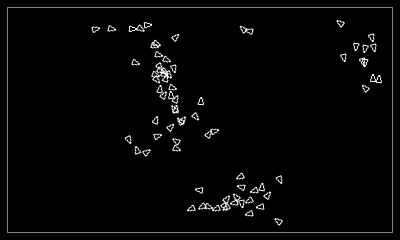
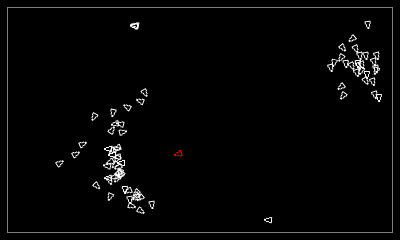
example changed to sheeps and wolf

diff --git a/example/lib/game/levels/example.js b/example/lib/game/levels/example.js
@@ -1,6 +1,6 @@
 ig.module( 'game.levels.example' )
-.requires( 'impact.image','game.entities.triangle' )
+.requires( 'impact.image','game.entities.sheep','game.entities.wolf' )
 .defines(function(){
-LevelExample=/*JSON[*/{"entities":[{"type":"EntityTriangle","x":216,"y":168},{"type":"EntityTriangle","x":220,"y":168},{"type":"EntityTriangle","x":40,"y":36},{"type":"EntityTriangle","x":44,"y":36},{"type":"EntityTriangle","x":48,"y":36},{"type":"EntityTriangle","x":36,"y":36},{"type":"EntityTriangle","x":52,"y":36},{"type":"EntityTriangle","x":32,"y":36},{"type":"EntityTriangle","x":56,"y":36},{"type":"EntityTriangle","x":60,"y":36},{"type":"EntityTriangle","x":64,"y":36},{"type":"EntityTriangle","x":68,"y":36},{"type":"EntityTriangle","x":32,"y":52},{"type":"EntityTriangle","x":36,"y":52},{"type":"EntityTriangle","x":40,"y":52},{"type":"EntityTriangle","x":44,"y":52},{"type":"EntityTriangle","x":48,"y":52},{"type":"EntityTriangle","x":52,"y":52},{"type":"EntityTriangle","x":56,"y":52},{"type":"EntityTriangle","x":60,"y":52},{"type":"EntityTriangle","x":64,"y":52},{"type":"EntityTriangle","x":68,"y":52},{"type":"EntityTriangle","x":276,"y":56},{"type":"EntityTriangle","x":280,"y":56},{"type":"EntityTriangle","x":284,"y":56},{"type":"EntityTriangle","x":288,"y":56},{"type":"EntityTriangle","x":292,"y":56},{"type":"EntityTriangle","x":276,"y":64},{"type":"EntityTriangle","x":280,"y":64},{"type":"EntityTriangle","x":284,"y":64},{"type":"EntityTriangle","x":288,"y":64},{"type":"EntityTriangle","x":192,"y":168},{"type":"EntityTriangle","x":292,"y":64},{"type":"EntityTriangle","x":196,"y":168},{"type":"EntityTriangle","x":200,"y":168},{"type":"EntityTriangle","x":204,"y":168},{"type":"EntityTriangle","x":208,"y":168},{"type":"EntityTriangle","x":212,"y":168},{"type":"EntityTriangle","x":224,"y":168},{"type":"EntityTriangle","x":228,"y":168},{"type":"EntityTriangle","x":232,"y":168},{"type":"EntityTriangle","x":236,"y":168},{"type":"EntityTriangle","x":192,"y":176},{"type":"EntityTriangle","x":196,"y":176},{"type":"EntityTriangle","x":200,"y":176},{"type":"EntityTriangle","x":204,"y":176},{"type":"EntityTriangle","x":208,"y":176},{"type":"EntityTriangle","x":212,"y":176},{"type":"EntityTriangle","x":216,"y":176},{"type":"EntityTriangle","x":220,"y":176},{"type":"EntityTriangle","x":224,"y":176},{"type":"EntityTriangle","x":92,"y":116},{"type":"EntityTriangle","x":232,"y":176},{"type":"EntityTriangle","x":336,"y":200},{"type":"EntityTriangle","x":96,"y":116},{"type":"EntityTriangle","x":100,"y":116},{"type":"EntityTriangle","x":104,"y":116},{"type":"EntityTriangle","x":108,"y":116},{"type":"EntityTriangle","x":112,"y":116},{"type":"EntityTriangle","x":116,"y":116},{"type":"EntityTriangle","x":120,"y":116},{"type":"EntityTriangle","x":124,"y":116},{"type":"EntityTriangle","x":92,"y":124},{"type":"EntityTriangle","x":228,"y":176},{"type":"EntityTriangle","x":96,"y":124},{"type":"EntityTriangle","x":100,"y":124},{"type":"EntityTriangle","x":104,"y":124},{"type":"EntityTriangle","x":108,"y":124},{"type":"EntityTriangle","x":112,"y":124},{"type":"EntityTriangle","x":116,"y":124},{"type":"EntityTriangle","x":120,"y":124},{"type":"EntityTriangle","x":124,"y":124},{"type":"EntityTriangle","x":340,"y":200},{"type":"EntityTriangle","x":236,"y":176},{"type":"EntityTriangle","x":348,"y":200}],"layer":[{"name":"collision","width":50,"height":30,"linkWithCollision":false,"visible":1,"tilesetName":"","repeat":false,"preRender":false,"distance":1,"tilesize":8,"foreground":false,"data":[[1,1,1,1,1,1,1,1,1,1,1,1,1,1,1,1,1,1,1,1,1,1,1,1,1,1,1,1,1,1,1,1,1,1,1,1,1,1,1,1,1,1,1,1,1,1,1,1,1,1],[1,0,0,0,0,0,0,0,0,0,0,0,0,0,0,0,0,0,0,0,0,0,0,0,0,0,0,0,0,0,0,0,0,0,0,0,0,0,0,0,0,0,0,0,0,0,0,0,0,1],[1,0,0,0,0,0,0,0,0,0,0,0,0,0,0,0,0,0,0,0,0,0,0,0,0,0,0,0,0,0,0,0,0,0,0,0,0,0,0,0,0,0,0,0,0,0,0,0,0,1],[1,0,0,0,0,0,0,0,0,0,0,0,0,0,0,0,0,0,0,0,0,0,0,0,0,0,0,0,0,0,0,0,0,0,0,0,0,0,0,0,0,0,0,0,0,0,0,0,0,1],[1,0,0,0,0,0,0,0,0,0,0,0,0,0,0,0,0,0,0,0,0,0,0,0,0,0,0,0,0,0,0,0,0,0,0,0,0,0,0,0,0,0,0,0,0,0,0,0,0,1],[1,0,0,0,0,0,0,0,0,0,0,0,0,0,0,0,0,0,0,0,0,0,0,0,0,0,0,0,0,0,0,0,0,0,0,0,0,0,0,0,0,0,0,0,0,0,0,0,0,1],[1,0,0,0,0,0,0,0,0,0,0,0,0,0,0,0,0,0,0,0,0,0,0,0,0,0,0,0,0,0,0,0,0,0,0,0,0,0,0,0,0,0,0,0,0,0,0,0,0,1],[1,0,0,0,0,0,0,0,0,0,0,0,0,0,0,0,0,0,0,0,0,0,0,0,0,0,0,0,0,0,0,0,0,0,0,0,0,0,0,0,0,0,0,0,0,0,0,0,0,1],[1,0,0,0,0,0,0,0,0,0,0,0,0,0,0,0,0,0,0,0,0,0,0,0,0,0,0,0,0,0,0,0,0,0,0,0,0,0,0,0,0,0,0,0,0,0,0,0,0,1],[1,0,0,0,0,0,0,0,0,0,0,0,0,0,0,0,0,0,0,0,0,0,0,0,0,0,0,0,0,0,0,0,0,0,0,0,0,0,0,0,0,0,0,0,0,0,0,0,0,1],[1,0,0,0,0,0,0,0,0,0,0,0,0,0,0,0,0,0,0,0,0,0,0,0,0,0,0,0,0,0,0,0,0,0,0,0,0,0,0,0,0,0,0,0,0,0,0,0,0,1],[1,0,0,0,0,0,0,0,0,0,0,0,0,0,0,0,0,0,0,0,0,0,0,0,0,0,0,0,0,0,0,0,0,0,0,0,0,0,0,0,0,0,0,0,0,0,0,0,0,1],[1,0,0,0,0,0,0,0,0,0,0,0,0,0,0,0,0,0,0,0,0,0,0,0,0,0,0,0,0,0,0,0,0,0,0,0,0,0,0,0,0,0,0,0,0,0,0,0,0,1],[1,0,0,0,0,0,0,0,0,0,0,0,0,0,0,0,0,0,0,0,0,0,0,0,0,0,0,0,0,0,0,0,0,0,0,0,0,0,0,0,0,0,0,0,0,0,0,0,0,1],[1,0,0,0,0,0,0,0,0,0,0,0,0,0,0,0,0,0,0,0,0,0,0,0,0,0,0,0,0,0,0,0,0,0,0,0,0,0,0,0,0,0,0,0,0,0,0,0,0,1],[1,0,0,0,0,0,0,0,0,0,0,0,0,0,0,0,0,0,0,0,0,0,0,0,0,0,0,0,0,0,0,0,0,0,0,0,0,0,0,0,0,0,0,0,0,0,0,0,0,1],[1,0,0,0,0,0,0,0,0,0,0,0,0,0,0,0,0,0,0,0,0,0,0,0,0,0,0,0,0,0,0,0,0,0,0,0,0,0,0,0,0,0,0,0,0,0,0,0,0,1],[1,0,0,0,0,0,0,0,0,0,0,0,0,0,0,0,0,0,0,0,0,0,0,0,0,0,0,0,0,0,0,0,0,0,0,0,0,0,0,0,0,0,0,0,0,0,0,0,0,1],[1,0,0,0,0,0,0,0,0,0,0,0,0,0,0,0,0,0,0,0,0,0,0,0,0,0,0,0,0,0,0,0,0,0,0,0,0,0,0,0,0,0,0,0,0,0,0,0,0,1],[1,0,0,0,0,0,0,0,0,0,0,0,0,0,0,0,0,0,0,0,0,0,0,0,0,0,0,0,0,0,0,0,0,0,0,0,0,0,0,0,0,0,0,0,0,0,0,0,0,1],[1,0,0,0,0,0,0,0,0,0,0,0,0,0,0,0,0,0,0,0,0,0,0,0,0,0,0,0,0,0,0,0,0,0,0,0,0,0,0,0,0,0,0,0,0,0,0,0,0,1],[1,0,0,0,0,0,0,0,0,0,0,0,0,0,0,0,0,0,0,0,0,0,0,0,0,0,0,0,0,0,0,0,0,0,0,0,0,0,0,0,0,0,0,0,0,0,0,0,0,1],[1,0,0,0,0,0,0,0,0,0,0,0,0,0,0,0,0,0,0,0,0,0,0,0,0,0,0,0,0,0,0,0,0,0,0,0,0,0,0,0,0,0,0,0,0,0,0,0,0,1],[1,0,0,0,0,0,0,0,0,0,0,0,0,0,0,0,0,0,0,0,0,0,0,0,0,0,0,0,0,0,0,0,0,0,0,0,0,0,0,0,0,0,0,0,0,0,0,0,0,1],[1,0,0,0,0,0,0,0,0,0,0,0,0,0,0,0,0,0,0,0,0,0,0,0,0,0,0,0,0,0,0,0,0,0,0,0,0,0,0,0,0,0,0,0,0,0,0,0,0,1],[1,0,0,0,0,0,0,0,0,0,0,0,0,0,0,0,0,0,0,0,0,0,0,0,0,0,0,0,0,0,0,0,0,0,0,0,0,0,0,0,0,0,0,0,0,0,0,0,0,1],[1,0,0,0,0,0,0,0,0,0,0,0,0,0,0,0,0,0,0,0,0,0,0,0,0,0,0,0,0,0,0,0,0,0,0,0,0,0,0,0,0,0,0,0,0,0,0,0,0,1],[1,0,0,0,0,0,0,0,0,0,0,0,0,0,0,0,0,0,0,0,0,0,0,0,0,0,0,0,0,0,0,0,0,0,0,0,0,0,0,0,0,0,0,0,0,0,0,0,0,1],[1,0,0,0,0,0,0,0,0,0,0,0,0,0,0,0,0,0,0,0,0,0,0,0,0,0,0,0,0,0,0,0,0,0,0,0,0,0,0,0,0,0,0,0,0,0,0,0,0,1],[1,1,1,1,1,1,1,1,1,1,1,1,1,1,1,1,1,1,1,1,1,1,1,1,1,1,1,1,1,1,1,1,1,1,1,1,1,1,1,1,1,1,1,1,1,1,1,1,1,1]]},{"name":"map","width":50,"height":30,"linkWithCollision":true,"visible":1,"tilesetName":"media/tiles.png","repeat":false,"preRender":true,"distance":"1","tilesize":8,"foreground":false,"data":[[31,3,3,3,3,3,3,3,3,3,3,3,3,3,3,3,3,3,3,3,3,3,3,3,3,3,3,3,3,3,3,3,3,3,3,3,3,3,3,3,3,3,3,3,3,3,3,3,3,32],[2,0,0,0,0,0,0,0,0,0,0,0,0,0,0,0,0,0,0,0,0,0,0,0,0,0,0,0,0,0,0,0,0,0,0,0,0,0,0,0,0,0,0,0,0,0,0,0,0,4],[2,0,0,0,0,0,0,0,0,0,0,0,0,0,0,0,0,0,0,0,0,0,0,0,0,0,0,0,0,0,0,0,0,0,0,0,0,0,0,0,0,0,0,0,0,0,0,0,0,4],[2,0,0,0,0,0,0,0,0,0,0,0,0,0,0,0,0,0,0,0,0,0,0,0,0,0,0,0,0,0,0,0,0,0,0,0,0,0,0,0,0,0,0,0,0,0,0,0,0,4],[2,0,0,0,0,0,0,0,0,0,0,0,0,0,0,0,0,0,0,0,0,0,0,0,0,0,0,0,0,0,0,0,0,0,0,0,0,0,0,0,0,0,0,0,0,0,0,0,0,4],[2,0,0,0,0,0,0,0,0,0,0,0,0,0,0,0,0,0,0,0,0,0,0,0,0,0,0,0,0,0,0,0,0,0,0,0,0,0,0,0,0,0,0,0,0,0,0,0,0,4],[2,0,0,0,0,0,0,0,0,0,0,0,0,0,0,0,0,0,0,0,0,0,0,0,0,0,0,0,0,0,0,0,0,0,0,0,0,0,0,0,0,0,0,0,0,0,0,0,0,4],[2,0,0,0,0,0,0,0,0,0,0,0,0,0,0,0,0,0,0,0,0,0,0,0,0,0,0,0,0,0,0,0,0,0,0,0,0,0,0,0,0,0,0,0,0,0,0,0,0,4],[2,0,0,0,0,0,0,0,0,0,0,0,0,0,0,0,0,0,0,0,0,0,0,0,0,0,0,0,0,0,0,0,0,0,0,0,0,0,0,0,0,0,0,0,0,0,0,0,0,4],[2,0,0,0,0,0,0,0,0,0,0,0,0,0,0,0,0,0,0,0,0,0,0,0,0,0,0,0,0,0,0,0,0,0,0,0,0,0,0,0,0,0,0,0,0,0,0,0,0,4],[2,0,0,0,0,0,0,0,0,0,0,0,0,0,0,0,0,0,0,0,0,0,0,0,0,0,0,0,0,0,0,0,0,0,0,0,0,0,0,0,0,0,0,0,0,0,0,0,0,4],[2,0,0,0,0,0,0,0,0,0,0,0,0,0,0,0,0,0,0,0,0,0,0,0,0,0,0,0,0,0,0,0,0,0,0,0,0,0,0,0,0,0,0,0,0,0,0,0,0,4],[2,0,0,0,0,0,0,0,0,0,0,0,0,0,0,0,0,0,0,0,0,0,0,0,0,0,0,0,0,0,0,0,0,0,0,0,0,0,0,0,0,0,0,0,0,0,0,0,0,4],[2,0,0,0,0,0,0,0,0,0,0,0,0,0,0,0,0,0,0,0,0,0,0,0,0,0,0,0,0,0,0,0,0,0,0,0,0,0,0,0,0,0,0,0,0,0,0,0,0,4],[2,0,0,0,0,0,0,0,0,0,0,0,0,0,0,0,0,0,0,0,0,0,0,0,0,0,0,0,0,0,0,0,0,0,0,0,0,0,0,0,0,0,0,0,0,0,0,0,0,4],[2,0,0,0,0,0,0,0,0,0,0,0,0,0,0,0,0,0,0,0,0,0,0,0,0,0,0,0,0,0,0,0,0,0,0,0,0,0,0,0,0,0,0,0,0,0,0,0,0,4],[2,0,0,0,0,0,0,0,0,0,0,0,0,0,0,0,0,0,0,0,0,0,0,0,0,0,0,0,0,0,0,0,0,0,0,0,0,0,0,0,0,0,0,0,0,0,0,0,0,4],[2,0,0,0,0,0,0,0,0,0,0,0,0,0,0,0,0,0,0,0,0,0,0,0,0,0,0,0,0,0,0,0,0,0,0,0,0,0,0,0,0,0,0,0,0,0,0,0,0,4],[2,0,0,0,0,0,0,0,0,0,0,0,0,0,0,0,0,0,0,0,0,0,0,0,0,0,0,0,0,0,0,0,0,0,0,0,0,0,0,0,0,0,0,0,0,0,0,0,0,4],[2,0,0,0,0,0,0,0,0,0,0,0,0,0,0,0,0,0,0,0,0,0,0,0,0,0,0,0,0,0,0,0,0,0,0,0,0,0,0,0,0,0,0,0,0,0,0,0,0,4],[2,0,0,0,0,0,0,0,0,0,0,0,0,0,0,0,0,0,0,0,0,0,0,0,0,0,0,0,0,0,0,0,0,0,0,0,0,0,0,0,0,0,0,0,0,0,0,0,0,4],[2,0,0,0,0,0,0,0,0,0,0,0,0,0,0,0,0,0,0,0,0,0,0,0,0,0,0,0,0,0,0,0,0,0,0,0,0,0,0,0,0,0,0,0,0,0,0,0,0,4],[2,0,0,0,0,0,0,0,0,0,0,0,0,0,0,0,0,0,0,0,0,0,0,0,0,0,0,0,0,0,0,0,0,0,0,0,0,0,0,0,0,0,0,0,0,0,0,0,0,4],[2,0,0,0,0,0,0,0,0,0,0,0,0,0,0,0,0,0,0,0,0,0,0,0,0,0,0,0,0,0,0,0,0,0,0,0,0,0,0,0,0,0,0,0,0,0,0,0,0,4],[2,0,0,0,0,0,0,0,0,0,0,0,0,0,0,0,0,0,0,0,0,0,0,0,0,0,0,0,0,0,0,0,0,0,0,0,0,0,0,0,0,0,0,0,0,0,0,0,0,4],[2,0,0,0,0,0,0,0,0,0,0,0,0,0,0,0,0,0,0,0,0,0,0,0,0,0,0,0,0,0,0,0,0,0,0,0,0,0,0,0,0,0,0,0,0,0,0,0,0,4],[2,0,0,0,0,0,0,0,0,0,0,0,0,0,0,0,0,0,0,0,0,0,0,0,0,0,0,0,0,0,0,0,0,0,0,0,0,0,0,0,0,0,0,0,0,0,0,0,0,4],[2,0,0,0,0,0,0,0,0,0,0,0,0,0,0,0,0,0,0,0,0,0,0,0,0,0,0,0,0,0,0,0,0,0,0,0,0,0,0,0,0,0,0,0,0,0,0,0,0,4],[2,0,0,0,0,0,0,0,0,0,0,0,0,0,0,0,0,0,0,0,0,0,0,0,0,0,0,0,0,0,0,0,0,0,0,0,0,0,0,0,0,0,0,0,0,0,0,0,0,4],[30,1,1,1,1,1,1,1,1,1,1,1,1,1,1,1,1,1,1,1,1,1,1,1,1,1,1,1,1,1,1,1,1,1,1,1,1,1,1,1,1,1,1,1,1,1,1,1,1,29]]}]}/*]JSON*/;
+LevelExample=/*JSON[*/{"entities":[{"type":"EntitySheep","x":308,"y":48},{"type":"EntitySheep","x":320,"y":180},{"type":"EntitySheep","x":36,"y":32},{"type":"EntitySheep","x":40,"y":32},{"type":"EntitySheep","x":44,"y":32},{"type":"EntitySheep","x":32,"y":32},{"type":"EntitySheep","x":48,"y":32},{"type":"EntityWolf","x":196,"y":124},{"type":"EntitySheep","x":52,"y":32},{"type":"EntitySheep","x":56,"y":32},{"type":"EntitySheep","x":60,"y":32},{"type":"EntitySheep","x":64,"y":32},{"type":"EntitySheep","x":32,"y":40},{"type":"EntitySheep","x":36,"y":40},{"type":"EntitySheep","x":40,"y":40},{"type":"EntitySheep","x":44,"y":40},{"type":"EntitySheep","x":48,"y":40},{"type":"EntitySheep","x":52,"y":40},{"type":"EntitySheep","x":56,"y":40},{"type":"EntitySheep","x":60,"y":40},{"type":"EntitySheep","x":84,"y":184},{"type":"EntitySheep","x":88,"y":184},{"type":"EntitySheep","x":92,"y":184},{"type":"EntitySheep","x":84,"y":176},{"type":"EntitySheep","x":88,"y":176},{"type":"EntitySheep","x":92,"y":176},{"type":"EntitySheep","x":300,"y":172},{"type":"EntitySheep","x":304,"y":172},{"type":"EntitySheep","x":308,"y":172},{"type":"EntitySheep","x":312,"y":172},{"type":"EntitySheep","x":316,"y":172},{"type":"EntitySheep","x":320,"y":172},{"type":"EntitySheep","x":324,"y":172},{"type":"EntitySheep","x":300,"y":180},{"type":"EntitySheep","x":304,"y":180},{"type":"EntitySheep","x":308,"y":180},{"type":"EntitySheep","x":312,"y":180},{"type":"EntitySheep","x":316,"y":180},{"type":"EntitySheep","x":304,"y":48},{"type":"EntitySheep","x":312,"y":48},{"type":"EntitySheep","x":316,"y":48},{"type":"EntitySheep","x":320,"y":48},{"type":"EntitySheep","x":324,"y":48},{"type":"EntitySheep","x":304,"y":56},{"type":"EntitySheep","x":72,"y":108},{"type":"EntitySheep","x":308,"y":56},{"type":"EntitySheep","x":312,"y":56},{"type":"EntitySheep","x":316,"y":56},{"type":"EntitySheep","x":320,"y":56},{"type":"EntitySheep","x":324,"y":56},{"type":"EntitySheep","x":328,"y":56},{"type":"EntitySheep","x":184,"y":44},{"type":"EntitySheep","x":232,"y":120},{"type":"EntitySheep","x":160,"y":128},{"type":"EntitySheep","x":200,"y":152},{"type":"EntitySheep","x":244,"y":52},{"type":"EntitySheep","x":56,"y":148},{"type":"EntitySheep","x":24,"y":112},{"type":"EntitySheep","x":112,"y":52},{"type":"EntitySheep","x":32,"y":204},{"type":"EntitySheep","x":164,"y":168},{"type":"EntitySheep","x":160,"y":88},{"type":"EntitySheep","x":264,"y":120},{"type":"EntitySheep","x":120,"y":132},{"type":"EntitySheep","x":40,"y":68},{"type":"EntitySheep","x":316,"y":144},{"type":"EntitySheep","x":276,"y":20},{"type":"EntitySheep","x":256,"y":204},{"type":"EntitySheep","x":348,"y":96},{"type":"EntitySheep","x":188,"y":44},{"type":"EntitySheep","x":192,"y":44},{"type":"EntitySheep","x":196,"y":44},{"type":"EntitySheep","x":200,"y":44},{"type":"EntitySheep","x":204,"y":44},{"type":"EntitySheep","x":208,"y":44},{"type":"EntitySheep","x":212,"y":44}],"layer":[{"name":"collision","width":50,"height":30,"linkWithCollision":false,"visible":1,"tilesetName":"","repeat":false,"preRender":false,"distance":1,"tilesize":8,"foreground":false,"data":[[1,1,1,1,1,1,1,1,1,1,1,1,1,1,1,1,1,1,1,1,1,1,1,1,1,1,1,1,1,1,1,1,1,1,1,1,1,1,1,1,1,1,1,1,1,1,1,1,1,1],[1,0,0,0,0,0,0,0,0,0,0,0,0,0,0,0,0,0,0,0,0,0,0,0,0,0,0,0,0,0,0,0,0,0,0,0,0,0,0,0,0,0,0,0,0,0,0,0,0,1],[1,0,0,0,0,0,0,0,0,0,0,0,0,0,0,0,0,0,0,0,0,0,0,0,0,0,0,0,0,0,0,0,0,0,0,0,0,0,0,0,0,0,0,0,0,0,0,0,0,1],[1,0,0,0,0,0,0,0,0,0,0,0,0,0,0,0,0,0,0,0,0,0,0,0,0,0,0,0,0,0,0,0,0,0,0,0,0,0,0,0,0,0,0,0,0,0,0,0,0,1],[1,0,0,0,0,0,0,0,0,0,0,0,0,0,0,0,0,0,0,0,0,0,0,0,0,0,0,0,0,0,0,0,0,0,0,0,0,0,0,0,0,0,0,0,0,0,0,0,0,1],[1,0,0,0,0,0,0,0,0,0,0,0,0,0,0,0,0,0,0,0,0,0,0,0,0,0,0,0,0,0,0,0,0,0,0,0,0,0,0,0,0,0,0,0,0,0,0,0,0,1],[1,0,0,0,0,0,0,0,0,0,0,0,0,0,0,0,0,0,0,0,0,0,0,0,0,0,0,0,0,0,0,0,0,0,0,0,0,0,0,0,0,0,0,0,0,0,0,0,0,1],[1,0,0,0,0,0,0,0,0,0,0,0,0,0,0,0,0,0,0,0,0,0,0,0,0,0,0,0,0,0,0,0,0,0,0,0,0,0,0,0,0,0,0,0,0,0,0,0,0,1],[1,0,0,0,0,0,0,0,0,0,0,0,0,0,0,0,0,0,0,0,0,0,0,0,0,0,0,0,0,0,0,0,0,0,0,0,0,0,0,0,0,0,0,0,0,0,0,0,0,1],[1,0,0,0,0,0,0,0,0,0,0,0,0,0,0,0,0,0,0,0,0,0,0,0,0,0,0,0,0,0,0,0,0,0,0,0,0,0,0,0,0,0,0,0,0,0,0,0,0,1],[1,0,0,0,0,0,0,0,0,0,0,0,0,0,0,0,0,0,0,0,0,0,0,0,0,0,0,0,0,0,0,0,0,0,0,0,0,0,0,0,0,0,0,0,0,0,0,0,0,1],[1,0,0,0,0,0,0,0,0,0,0,0,0,0,0,0,0,0,0,0,0,0,0,0,0,0,0,0,0,0,0,0,0,0,0,0,0,0,0,0,0,0,0,0,0,0,0,0,0,1],[1,0,0,0,0,0,0,0,0,0,0,0,0,0,0,0,0,0,0,0,0,0,0,0,0,0,0,0,0,0,0,0,0,0,0,0,0,0,0,0,0,0,0,0,0,0,0,0,0,1],[1,0,0,0,0,0,0,0,0,0,0,0,0,0,0,0,0,0,0,0,0,0,0,0,0,0,0,0,0,0,0,0,0,0,0,0,0,0,0,0,0,0,0,0,0,0,0,0,0,1],[1,0,0,0,0,0,0,0,0,0,0,0,0,0,0,0,0,0,0,0,0,0,0,0,0,0,0,0,0,0,0,0,0,0,0,0,0,0,0,0,0,0,0,0,0,0,0,0,0,1],[1,0,0,0,0,0,0,0,0,0,0,0,0,0,0,0,0,0,0,0,0,0,0,0,0,0,0,0,0,0,0,0,0,0,0,0,0,0,0,0,0,0,0,0,0,0,0,0,0,1],[1,0,0,0,0,0,0,0,0,0,0,0,0,0,0,0,0,0,0,0,0,0,0,0,0,0,0,0,0,0,0,0,0,0,0,0,0,0,0,0,0,0,0,0,0,0,0,0,0,1],[1,0,0,0,0,0,0,0,0,0,0,0,0,0,0,0,0,0,0,0,0,0,0,0,0,0,0,0,0,0,0,0,0,0,0,0,0,0,0,0,0,0,0,0,0,0,0,0,0,1],[1,0,0,0,0,0,0,0,0,0,0,0,0,0,0,0,0,0,0,0,0,0,0,0,0,0,0,0,0,0,0,0,0,0,0,0,0,0,0,0,0,0,0,0,0,0,0,0,0,1],[1,0,0,0,0,0,0,0,0,0,0,0,0,0,0,0,0,0,0,0,0,0,0,0,0,0,0,0,0,0,0,0,0,0,0,0,0,0,0,0,0,0,0,0,0,0,0,0,0,1],[1,0,0,0,0,0,0,0,0,0,0,0,0,0,0,0,0,0,0,0,0,0,0,0,0,0,0,0,0,0,0,0,0,0,0,0,0,0,0,0,0,0,0,0,0,0,0,0,0,1],[1,0,0,0,0,0,0,0,0,0,0,0,0,0,0,0,0,0,0,0,0,0,0,0,0,0,0,0,0,0,0,0,0,0,0,0,0,0,0,0,0,0,0,0,0,0,0,0,0,1],[1,0,0,0,0,0,0,0,0,0,0,0,0,0,0,0,0,0,0,0,0,0,0,0,0,0,0,0,0,0,0,0,0,0,0,0,0,0,0,0,0,0,0,0,0,0,0,0,0,1],[1,0,0,0,0,0,0,0,0,0,0,0,0,0,0,0,0,0,0,0,0,0,0,0,0,0,0,0,0,0,0,0,0,0,0,0,0,0,0,0,0,0,0,0,0,0,0,0,0,1],[1,0,0,0,0,0,0,0,0,0,0,0,0,0,0,0,0,0,0,0,0,0,0,0,0,0,0,0,0,0,0,0,0,0,0,0,0,0,0,0,0,0,0,0,0,0,0,0,0,1],[1,0,0,0,0,0,0,0,0,0,0,0,0,0,0,0,0,0,0,0,0,0,0,0,0,0,0,0,0,0,0,0,0,0,0,0,0,0,0,0,0,0,0,0,0,0,0,0,0,1],[1,0,0,0,0,0,0,0,0,0,0,0,0,0,0,0,0,0,0,0,0,0,0,0,0,0,0,0,0,0,0,0,0,0,0,0,0,0,0,0,0,0,0,0,0,0,0,0,0,1],[1,0,0,0,0,0,0,0,0,0,0,0,0,0,0,0,0,0,0,0,0,0,0,0,0,0,0,0,0,0,0,0,0,0,0,0,0,0,0,0,0,0,0,0,0,0,0,0,0,1],[1,0,0,0,0,0,0,0,0,0,0,0,0,0,0,0,0,0,0,0,0,0,0,0,0,0,0,0,0,0,0,0,0,0,0,0,0,0,0,0,0,0,0,0,0,0,0,0,0,1],[1,1,1,1,1,1,1,1,1,1,1,1,1,1,1,1,1,1,1,1,1,1,1,1,1,1,1,1,1,1,1,1,1,1,1,1,1,1,1,1,1,1,1,1,1,1,1,1,1,1]]},{"name":"map","width":50,"height":30,"linkWithCollision":true,"visible":1,"tilesetName":"media/tiles.png","repeat":false,"preRender":true,"distance":"1","tilesize":8,"foreground":false,"data":[[31,3,3,3,3,3,3,3,3,3,3,3,3,3,3,3,3,3,3,3,3,3,3,3,3,3,3,3,3,3,3,3,3,3,3,3,3,3,3,3,3,3,3,3,3,3,3,3,3,32],[2,0,0,0,0,0,0,0,0,0,0,0,0,0,0,0,0,0,0,0,0,0,0,0,0,0,0,0,0,0,0,0,0,0,0,0,0,0,0,0,0,0,0,0,0,0,0,0,0,4],[2,0,0,0,0,0,0,0,0,0,0,0,0,0,0,0,0,0,0,0,0,0,0,0,0,0,0,0,0,0,0,0,0,0,0,0,0,0,0,0,0,0,0,0,0,0,0,0,0,4],[2,0,0,0,0,0,0,0,0,0,0,0,0,0,0,0,0,0,0,0,0,0,0,0,0,0,0,0,0,0,0,0,0,0,0,0,0,0,0,0,0,0,0,0,0,0,0,0,0,4],[2,0,0,0,0,0,0,0,0,0,0,0,0,0,0,0,0,0,0,0,0,0,0,0,0,0,0,0,0,0,0,0,0,0,0,0,0,0,0,0,0,0,0,0,0,0,0,0,0,4],[2,0,0,0,0,0,0,0,0,0,0,0,0,0,0,0,0,0,0,0,0,0,0,0,0,0,0,0,0,0,0,0,0,0,0,0,0,0,0,0,0,0,0,0,0,0,0,0,0,4],[2,0,0,0,0,0,0,0,0,0,0,0,0,0,0,0,0,0,0,0,0,0,0,0,0,0,0,0,0,0,0,0,0,0,0,0,0,0,0,0,0,0,0,0,0,0,0,0,0,4],[2,0,0,0,0,0,0,0,0,0,0,0,0,0,0,0,0,0,0,0,0,0,0,0,0,0,0,0,0,0,0,0,0,0,0,0,0,0,0,0,0,0,0,0,0,0,0,0,0,4],[2,0,0,0,0,0,0,0,0,0,0,0,0,0,0,0,0,0,0,0,0,0,0,0,0,0,0,0,0,0,0,0,0,0,0,0,0,0,0,0,0,0,0,0,0,0,0,0,0,4],[2,0,0,0,0,0,0,0,0,0,0,0,0,0,0,0,0,0,0,0,0,0,0,0,0,0,0,0,0,0,0,0,0,0,0,0,0,0,0,0,0,0,0,0,0,0,0,0,0,4],[2,0,0,0,0,0,0,0,0,0,0,0,0,0,0,0,0,0,0,0,0,0,0,0,0,0,0,0,0,0,0,0,0,0,0,0,0,0,0,0,0,0,0,0,0,0,0,0,0,4],[2,0,0,0,0,0,0,0,0,0,0,0,0,0,0,0,0,0,0,0,0,0,0,0,0,0,0,0,0,0,0,0,0,0,0,0,0,0,0,0,0,0,0,0,0,0,0,0,0,4],[2,0,0,0,0,0,0,0,0,0,0,0,0,0,0,0,0,0,0,0,0,0,0,0,0,0,0,0,0,0,0,0,0,0,0,0,0,0,0,0,0,0,0,0,0,0,0,0,0,4],[2,0,0,0,0,0,0,0,0,0,0,0,0,0,0,0,0,0,0,0,0,0,0,0,0,0,0,0,0,0,0,0,0,0,0,0,0,0,0,0,0,0,0,0,0,0,0,0,0,4],[2,0,0,0,0,0,0,0,0,0,0,0,0,0,0,0,0,0,0,0,0,0,0,0,0,0,0,0,0,0,0,0,0,0,0,0,0,0,0,0,0,0,0,0,0,0,0,0,0,4],[2,0,0,0,0,0,0,0,0,0,0,0,0,0,0,0,0,0,0,0,0,0,0,0,0,0,0,0,0,0,0,0,0,0,0,0,0,0,0,0,0,0,0,0,0,0,0,0,0,4],[2,0,0,0,0,0,0,0,0,0,0,0,0,0,0,0,0,0,0,0,0,0,0,0,0,0,0,0,0,0,0,0,0,0,0,0,0,0,0,0,0,0,0,0,0,0,0,0,0,4],[2,0,0,0,0,0,0,0,0,0,0,0,0,0,0,0,0,0,0,0,0,0,0,0,0,0,0,0,0,0,0,0,0,0,0,0,0,0,0,0,0,0,0,0,0,0,0,0,0,4],[2,0,0,0,0,0,0,0,0,0,0,0,0,0,0,0,0,0,0,0,0,0,0,0,0,0,0,0,0,0,0,0,0,0,0,0,0,0,0,0,0,0,0,0,0,0,0,0,0,4],[2,0,0,0,0,0,0,0,0,0,0,0,0,0,0,0,0,0,0,0,0,0,0,0,0,0,0,0,0,0,0,0,0,0,0,0,0,0,0,0,0,0,0,0,0,0,0,0,0,4],[2,0,0,0,0,0,0,0,0,0,0,0,0,0,0,0,0,0,0,0,0,0,0,0,0,0,0,0,0,0,0,0,0,0,0,0,0,0,0,0,0,0,0,0,0,0,0,0,0,4],[2,0,0,0,0,0,0,0,0,0,0,0,0,0,0,0,0,0,0,0,0,0,0,0,0,0,0,0,0,0,0,0,0,0,0,0,0,0,0,0,0,0,0,0,0,0,0,0,0,4],[2,0,0,0,0,0,0,0,0,0,0,0,0,0,0,0,0,0,0,0,0,0,0,0,0,0,0,0,0,0,0,0,0,0,0,0,0,0,0,0,0,0,0,0,0,0,0,0,0,4],[2,0,0,0,0,0,0,0,0,0,0,0,0,0,0,0,0,0,0,0,0,0,0,0,0,0,0,0,0,0,0,0,0,0,0,0,0,0,0,0,0,0,0,0,0,0,0,0,0,4],[2,0,0,0,0,0,0,0,0,0,0,0,0,0,0,0,0,0,0,0,0,0,0,0,0,0,0,0,0,0,0,0,0,0,0,0,0,0,0,0,0,0,0,0,0,0,0,0,0,4],[2,0,0,0,0,0,0,0,0,0,0,0,0,0,0,0,0,0,0,0,0,0,0,0,0,0,0,0,0,0,0,0,0,0,0,0,0,0,0,0,0,0,0,0,0,0,0,0,0,4],[2,0,0,0,0,0,0,0,0,0,0,0,0,0,0,0,0,0,0,0,0,0,0,0,0,0,0,0,0,0,0,0,0,0,0,0,0,0,0,0,0,0,0,0,0,0,0,0,0,4],[2,0,0,0,0,0,0,0,0,0,0,0,0,0,0,0,0,0,0,0,0,0,0,0,0,0,0,0,0,0,0,0,0,0,0,0,0,0,0,0,0,0,0,0,0,0,0,0,0,4],[2,0,0,0,0,0,0,0,0,0,0,0,0,0,0,0,0,0,0,0,0,0,0,0,0,0,0,0,0,0,0,0,0,0,0,0,0,0,0,0,0,0,0,0,0,0,0,0,0,4],[30,1,1,1,1,1,1,1,1,1,1,1,1,1,1,1,1,1,1,1,1,1,1,1,1,1,1,1,1,1,1,1,1,1,1,1,1,1,1,1,1,1,1,1,1,1,1,1,1,29]]}]}/*]JSON*/;
 LevelExampleResources=[new ig.Image('media/tiles.png')];
 });

diff --git a/example/lib/plugins/steering-behaviors.js b/example/lib/plugins/steering-behaviors.js
@@ -49,17 +49,18 @@ ig.Entity.inject({
 
 	// Calculation settings
 	avoidanceActive: false,
+	fleeActive: false,
 	separationActive: false,
 	alignmentActive: false,
 	cohesionActive: false,
 	wanderActive: false,
 
-	avoidanceWeight: 10,
+	avoidanceWeight: 20,
+	fleeWeight: 10,
 	separationWeight: 100,
 	alignmentWeight: 20,
 	cohesionWeight: 0.25,
 	wanderWeight: 4,
-
 
 	// wander() settings
 	wanderRadius: 20,
@@ -69,6 +70,9 @@ ig.Entity.inject({
 	// getNearEntities() settings
 	neighborsType: '',
 	neighborsDistance: 50,
+
+	// flee() settings
+	fleeFromPos: null,
 
 	// ---------- Internal ----------
 
@@ -134,6 +138,13 @@ ig.Entity.inject({
 			}
 		}
 
+		if(this.fleeActive) {
+			vForce = ig.Vector2D.scalarMult(this.flee(this.fleeFromPos), this.fleeWeight);
+
+			if(!this.accumulateForce(vSteeringForce, vForce)) {
+				return vSteeringForce;
+			}
+		}
 
 		if(this.separationActive || this.alignmentActive || this.cohesionActive) {
 			var neighbors = this.getNeighbors(this.neighborsDistance);

diff --git a/example/lib/game/entities/sheep.js b/example/lib/game/entities/sheep.js
@@ -1,0 +1,53 @@
+ig.module(
+	'game.entities.sheep'
+)
+.requires(
+	'impact.entity'
+)
+.defines(function() {
+
+EntitySheep = ig.Entity.extend({
+	size: {
+		x: 8,
+		y: 8
+	},
+
+	animSheet: new ig.AnimationSheet('media/sheep.png', 8, 8),
+
+	neighborsType: 'EntitySheep',
+
+	wanderActive: true,
+	separationActive: true,
+	alignmentActive: true,
+	cohesionActive: true,
+	avoidanceActive: true,
+
+	wolf: null,
+
+	init: function(x, y, settings) {
+		this.addAnim('idle', 5, [0]);
+
+		this.parent(x, y, settings);
+	},
+
+	ready: function() {
+		this.wolf = ig.game.getEntitiesByType('EntityWolf')[0];
+	},
+
+	update: function() {
+		if(this.distanceTo(this.wolf) < 60) {
+			this.fleeFromPos = this.wolf.pos;
+			this.fleeActive = true;
+		} else {
+			this.fleeActive = false;
+		}
+
+		this.parent();
+	},
+
+	draw: function() {
+		this.parent();
+	}
+});
+
+});

diff --git a/example/lib/game/entities/wolf.js b/example/lib/game/entities/wolf.js
@@ -1,25 +1,20 @@
 ig.module(
-	'game.entities.triangle'
+	'game.entities.wolf'
 )
 .requires(
 	'impact.entity'
 )
 .defines(function() {
 
-EntityTriangle = ig.Entity.extend({
+EntityWolf = ig.Entity.extend({
 	size: {
 		x: 8,
 		y: 8
 	},
 
-	animSheet: new ig.AnimationSheet('media/triangle.png', 8, 8),
-
-	neighborsType: 'EntityTriangle',
+	animSheet: new ig.AnimationSheet('media/wolf.png', 8, 8),
 
 	wanderActive: true,
-	separationActive: true,
-	alignmentActive: true,
-	cohesionActive: true,
 	avoidanceActive: true,
 
 	init: function(x, y, settings) {

diff --git a/example/lib/game/main.js b/example/lib/game/main.js
@@ -14,7 +14,7 @@ ig.module(
 	'plugins.steering-behaviors-debug',
 
 	// Entities
-	'game.entities.triangle',
+	'game.entities.sheep',
 
 	// Maps
 	'game.levels.example'

diff --git a/example/lib/plugins/steering-behaviors-debug.js b/example/lib/plugins/steering-behaviors-debug.js
@@ -2,7 +2,7 @@
  * steering-behaviors
  * https://github.com/hurik/impact-steering-behaviors
  *
- * v0.1.0
+ * BETA
  *
  * IMPORTANT:
  * You need this plugins:
